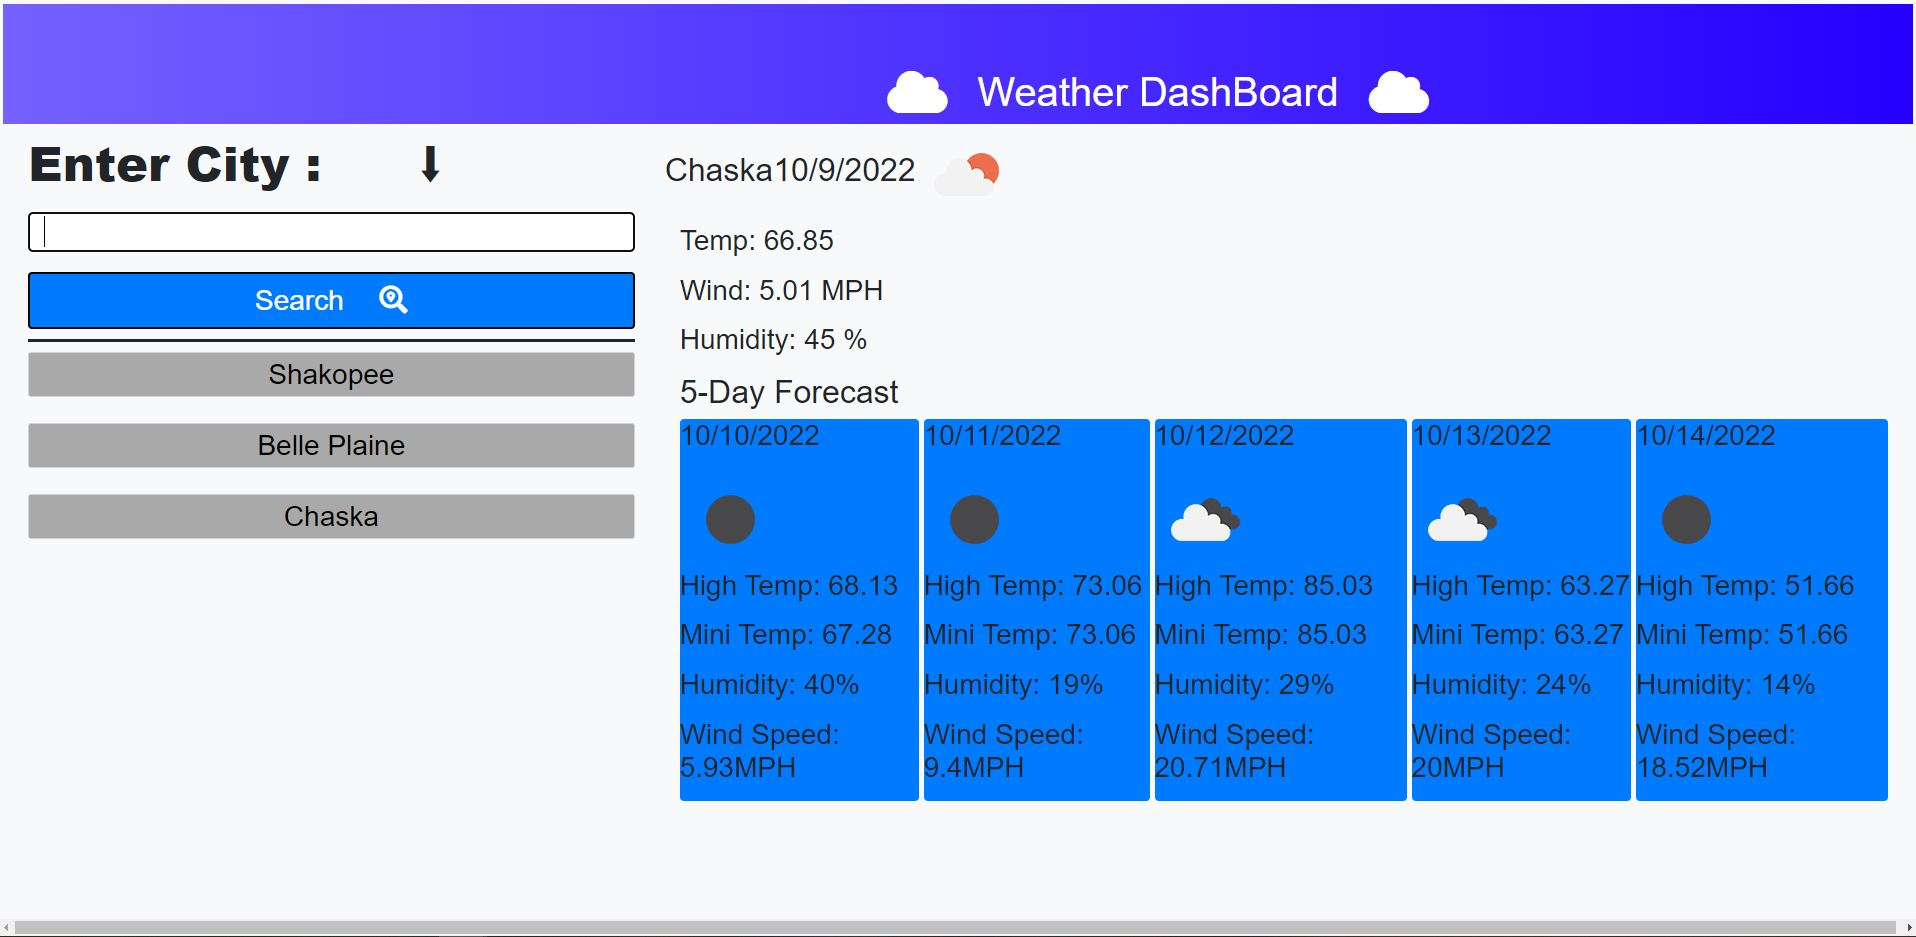
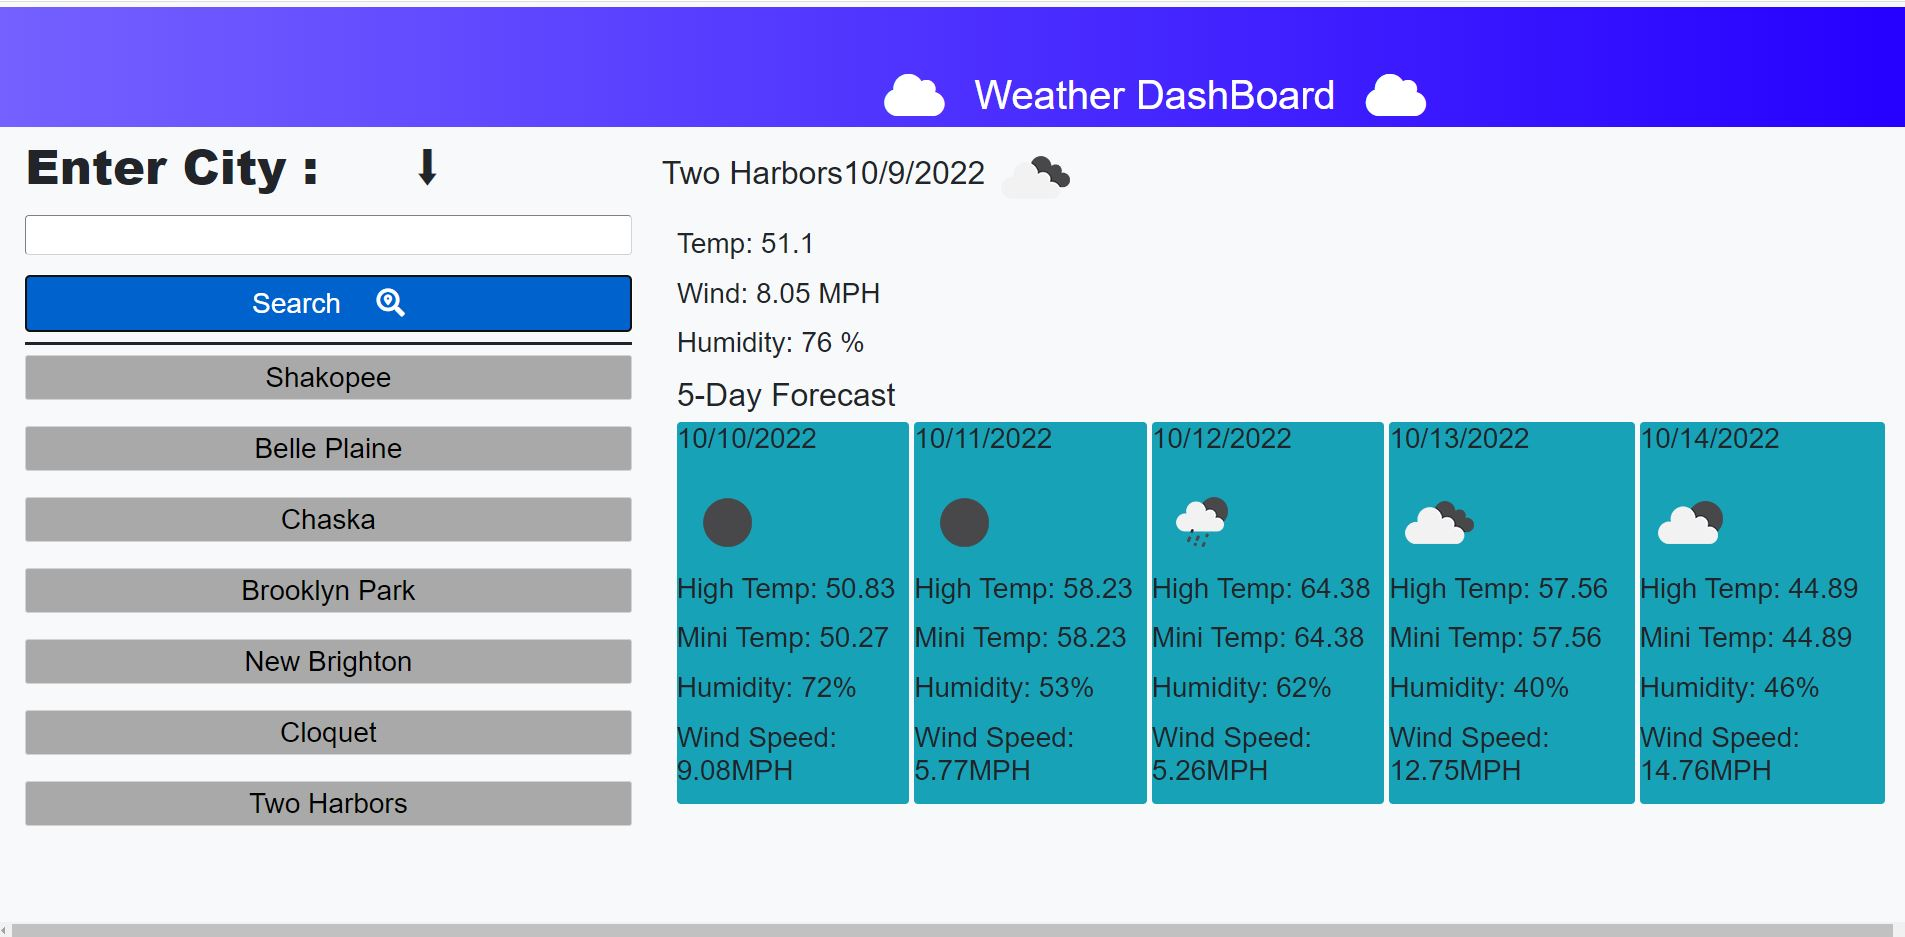
updated read me

diff --git a/index.html b/index.html
@@ -70,7 +70,7 @@
                     <h2 class="futureForeCastTitle" id="futureForecastTitle"></h2>
                     <div id="foreCastsCardsContainer" class="foreCastsCardsContainer d-flex justify-content-between">
 
-                        <div class="futureCard bg-primary rounded">
+                        <div class="futureCard bg-info rounded">
                             <p class="futureDate" id="futureDate-0"></p>
                             <img id="futureIcon-0" src="" alt="">
                             <p class="futureHighTemp" id="futureHightemp-0"></p>
@@ -79,7 +79,7 @@
                             <p class="futureWind" id="futureWind-0"></p>
                         </div>
 
-                        <div class="futureCard bg-primary rounded">
+                        <div class="futureCard bg-info rounded">
                             <p class="futureDate" id="futureDate-8"></p>
                             <img id="futureIcon-8" src="" alt="">
                             <p class="futureHighTemp" id="futureHightemp-8"></p>
@@ -88,7 +88,7 @@
                             <p class="futureWind" id="futureWind-8"></p>
                         </div>
 
-                        <div class="futureCard bg-primary rounded">
+                        <div class="futureCard bg-info rounded">
                             <p class="futureDate" id="futureDate-16"></p>
                             <img id="futureIcon-16" src="" alt="">
                             <p class="futureHighTemp" id="futureHightemp-16"></p>
@@ -97,7 +97,7 @@
                             <p class="futureWind" id="futureWind-16"></p>
                         </div>
 
-                        <div class="futureCard bg-primary rounded">
+                        <div class="futureCard bg-info rounded">
                             <p class="futureDate" id="futureDate-24"></p>
                             <img id="futureIcon-24" src="" alt="">
                             <p class="futureHighTemp" id="futureHightemp-24"></p>
@@ -106,7 +106,7 @@
                             <p class="futureWind" id="futureWind-24"></p>
                         </div>
 
-                        <div class="futureCard bg-primary rounded">
+                        <div class="futureCard bg-info rounded">
                             <p class="futureDate" id="futureDate-32"></p>
                             <img id="futureIcon-32" src="" alt="">
                             <p class="futureHighTemp" id="futureHightemp-32"></p>
